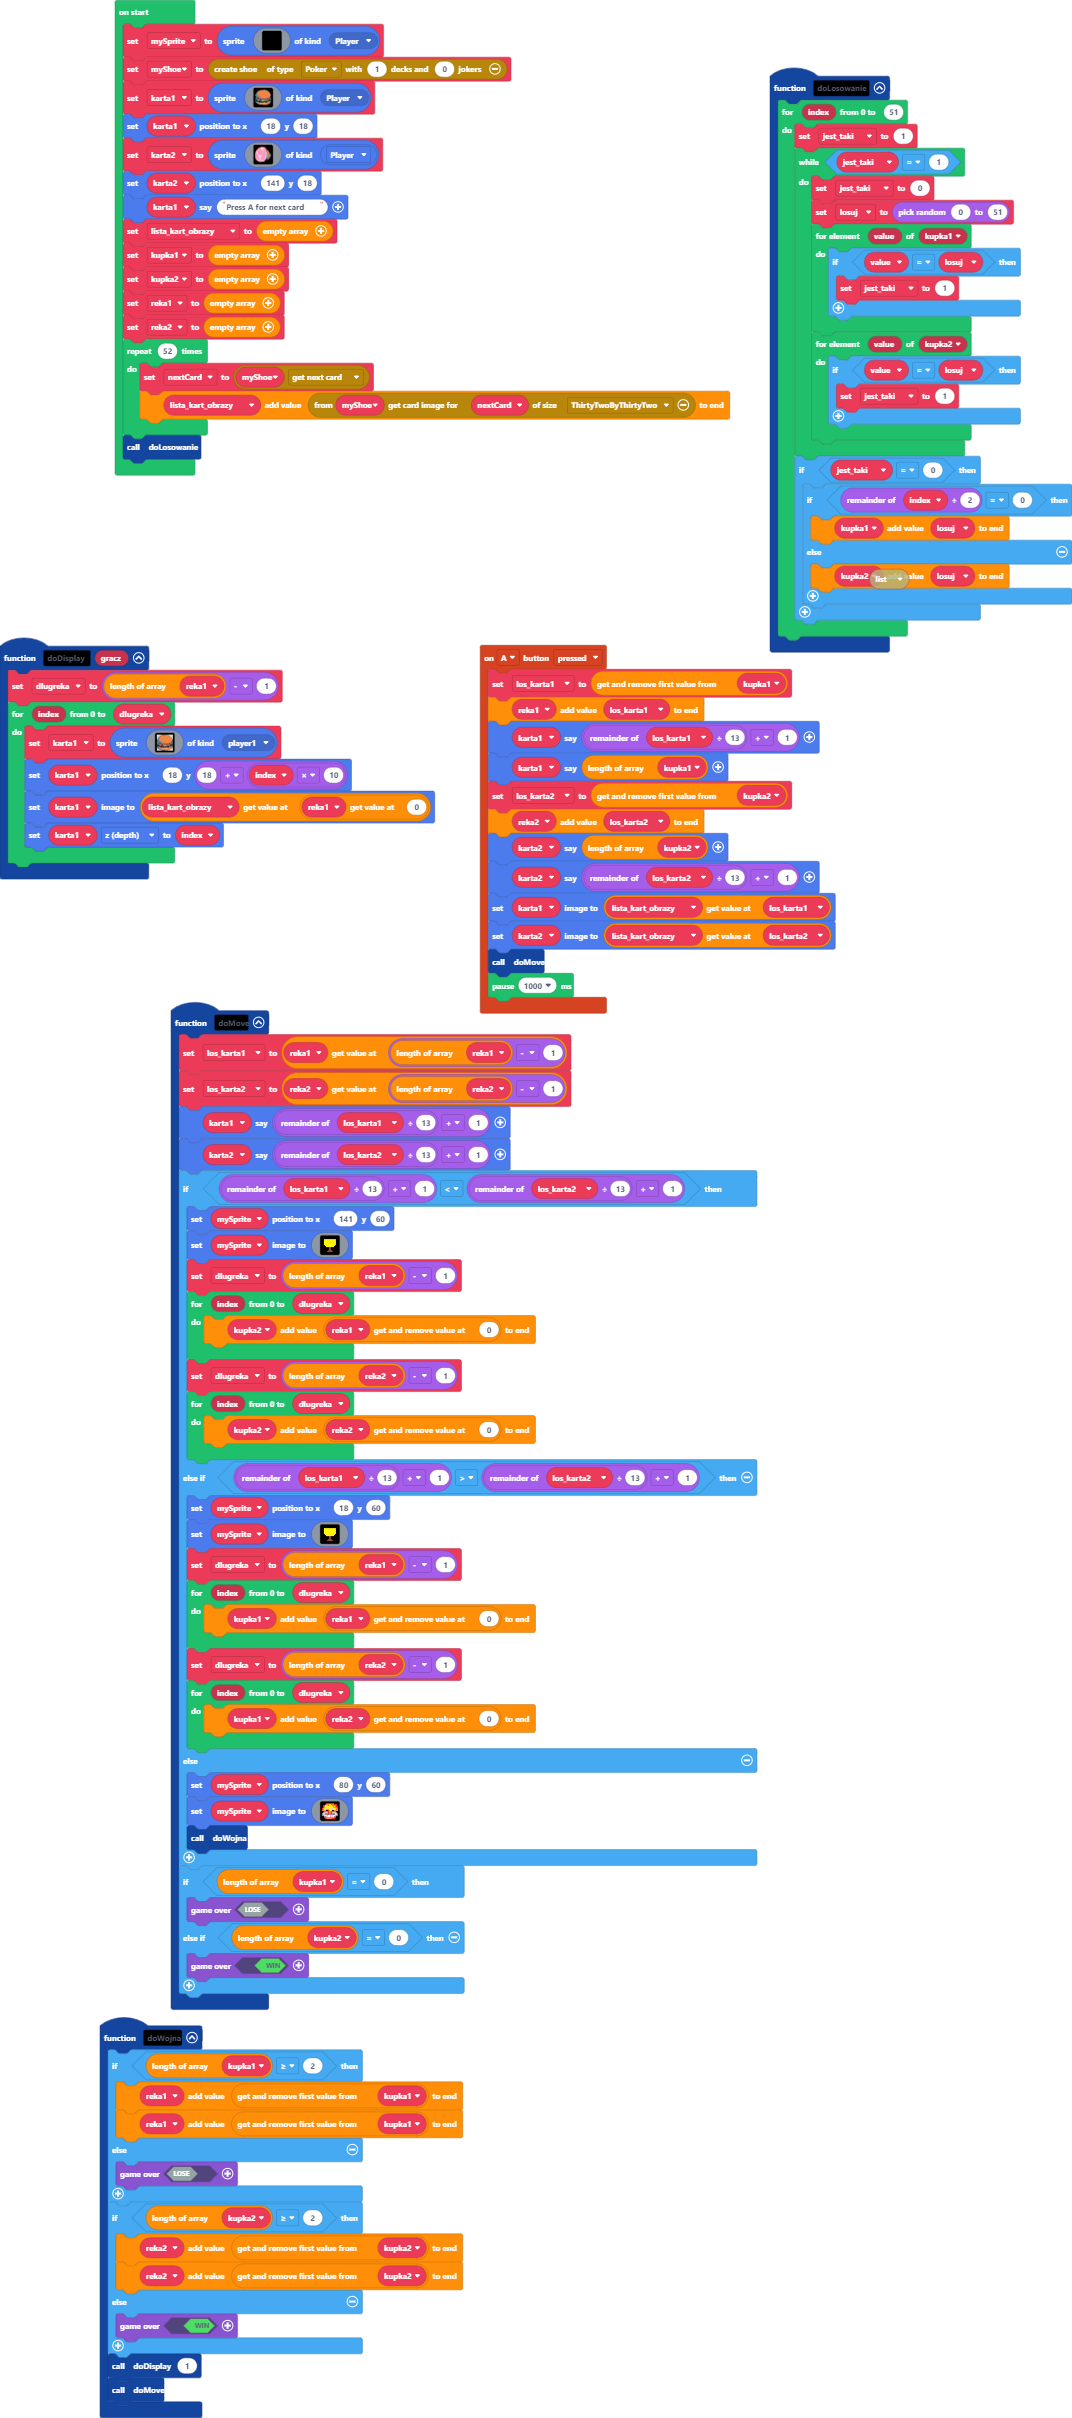
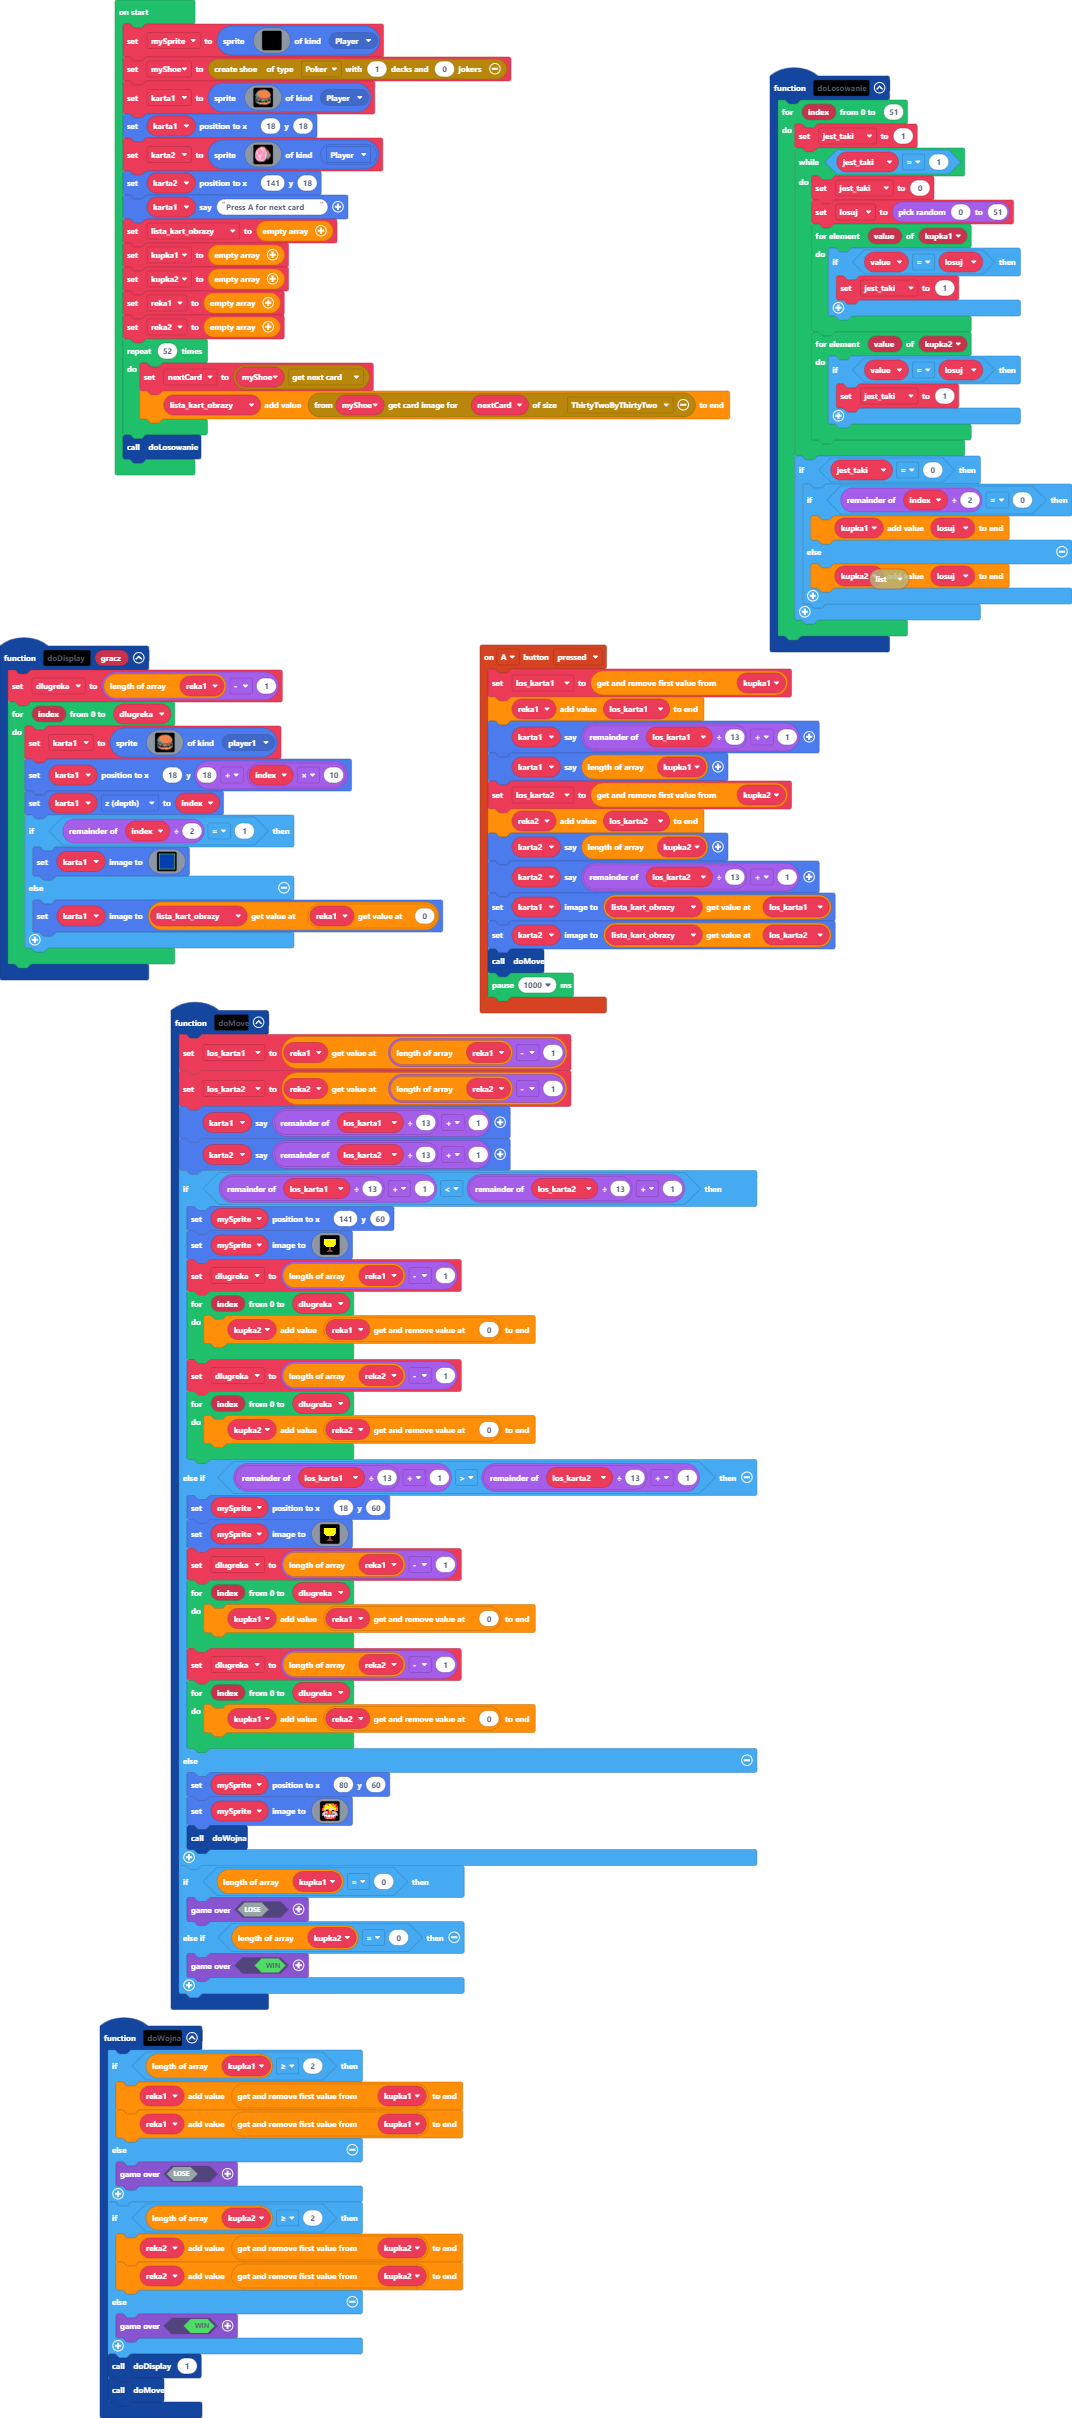
lewa reka

Changed region(s): [[0.0, 0.3102, 0.431, 0.4032], [0.4618, 0.2792, 0.7696, 0.4032], [0.1539, 0.9926, 0.1847, 1.0]]

diff --git a/main.ts b/main.ts
@@ -190,8 +190,45 @@ function doDisplay (gracz: number) {
             ................................
             `, SpriteKind.player1)
         karta1.setPosition(18, 18 + index * 10)
-        karta1.setImage(lista_kart_obrazy[reka1[0]])
         karta1.z = index
+        if (index % 2 == 1) {
+            karta1.setImage(img`
+                77777777777777777777777777777777
+                78888888888888888888888888888887
+                78888888888888888888888888888887
+                78888888888888888888888888888887
+                78888888888888888888888888888887
+                78888888888888888888888888888887
+                78888888888888888888888888888887
+                78888888888888888888888888888887
+                78888888888888888888888888888887
+                78888888888888888888888888888887
+                78888888888888888888888888888887
+                78888888888888888888888888888887
+                78888888888888888888888888888887
+                78888888888888888888888888888887
+                78888888888888888888888888888887
+                78888888888888888888888888888887
+                78888888888888888888888888888887
+                78888888888888888888888888888887
+                78888888888888888888888888888887
+                78888888888888888888888888888887
+                78888888888888888888888888888887
+                78888888888888888888888888888887
+                78888888888888888888888888888887
+                78888888888888888888888888888887
+                78888888888888888888888888888887
+                78888888888888888888888888888887
+                78888888888888888888888888888887
+                78888888888888888888888888888887
+                78888888888888888888888888888887
+                78888888888888888888888888888887
+                78888888888888888888888888888887
+                77777777777777777777777777777777
+                `)
+        } else {
+            karta1.setImage(lista_kart_obrazy[reka1[0]])
+        }
     }
 }
 let losuj = 0
